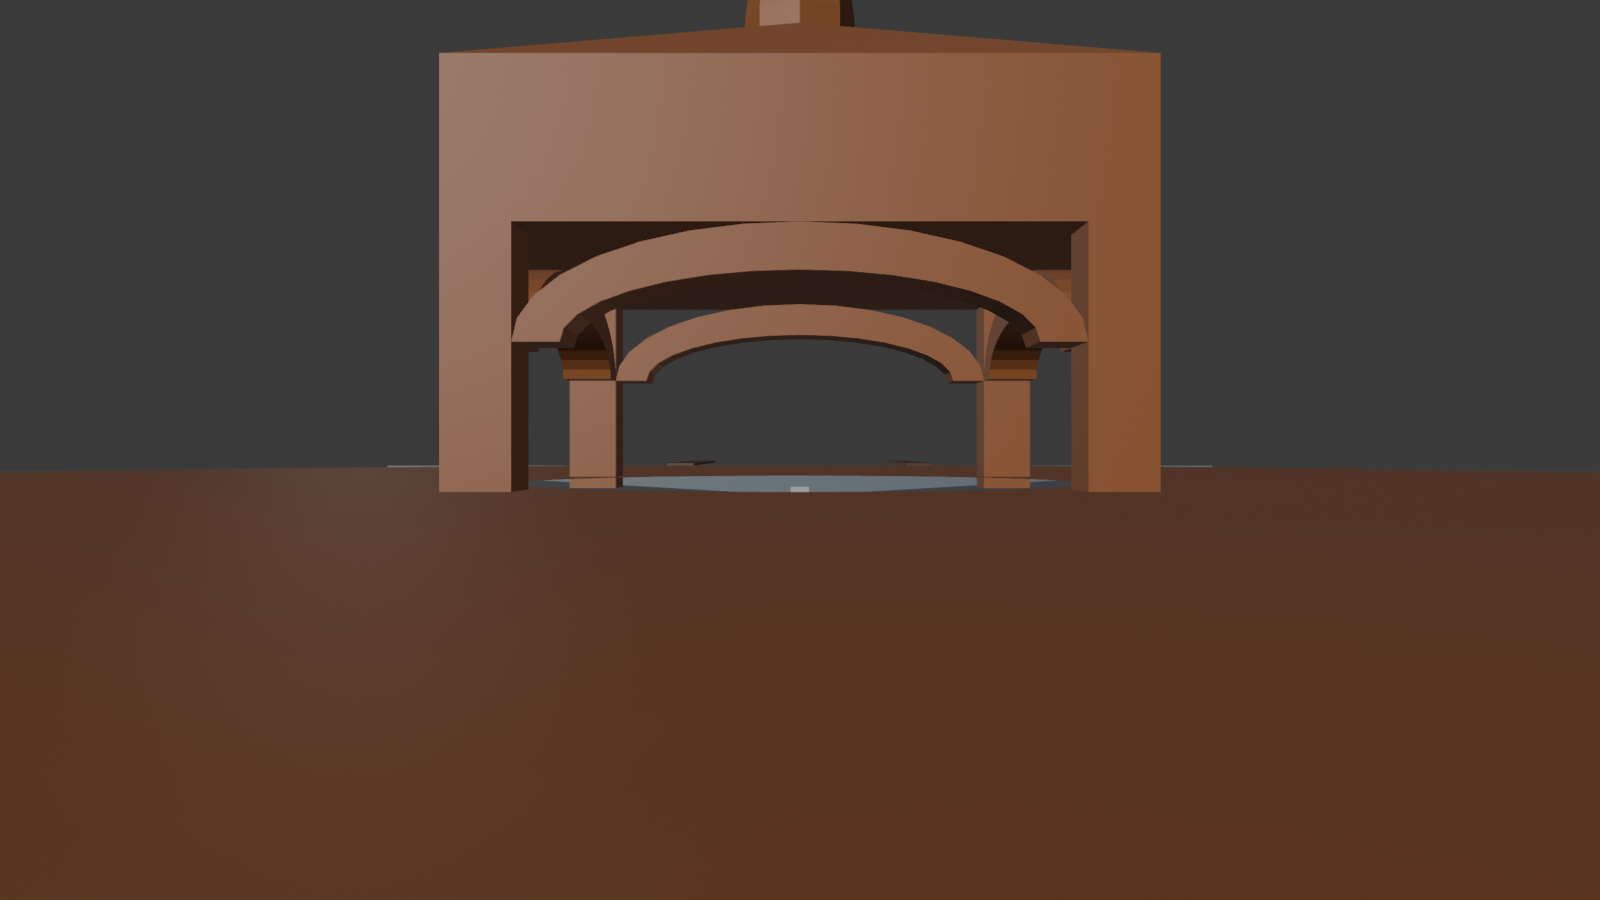
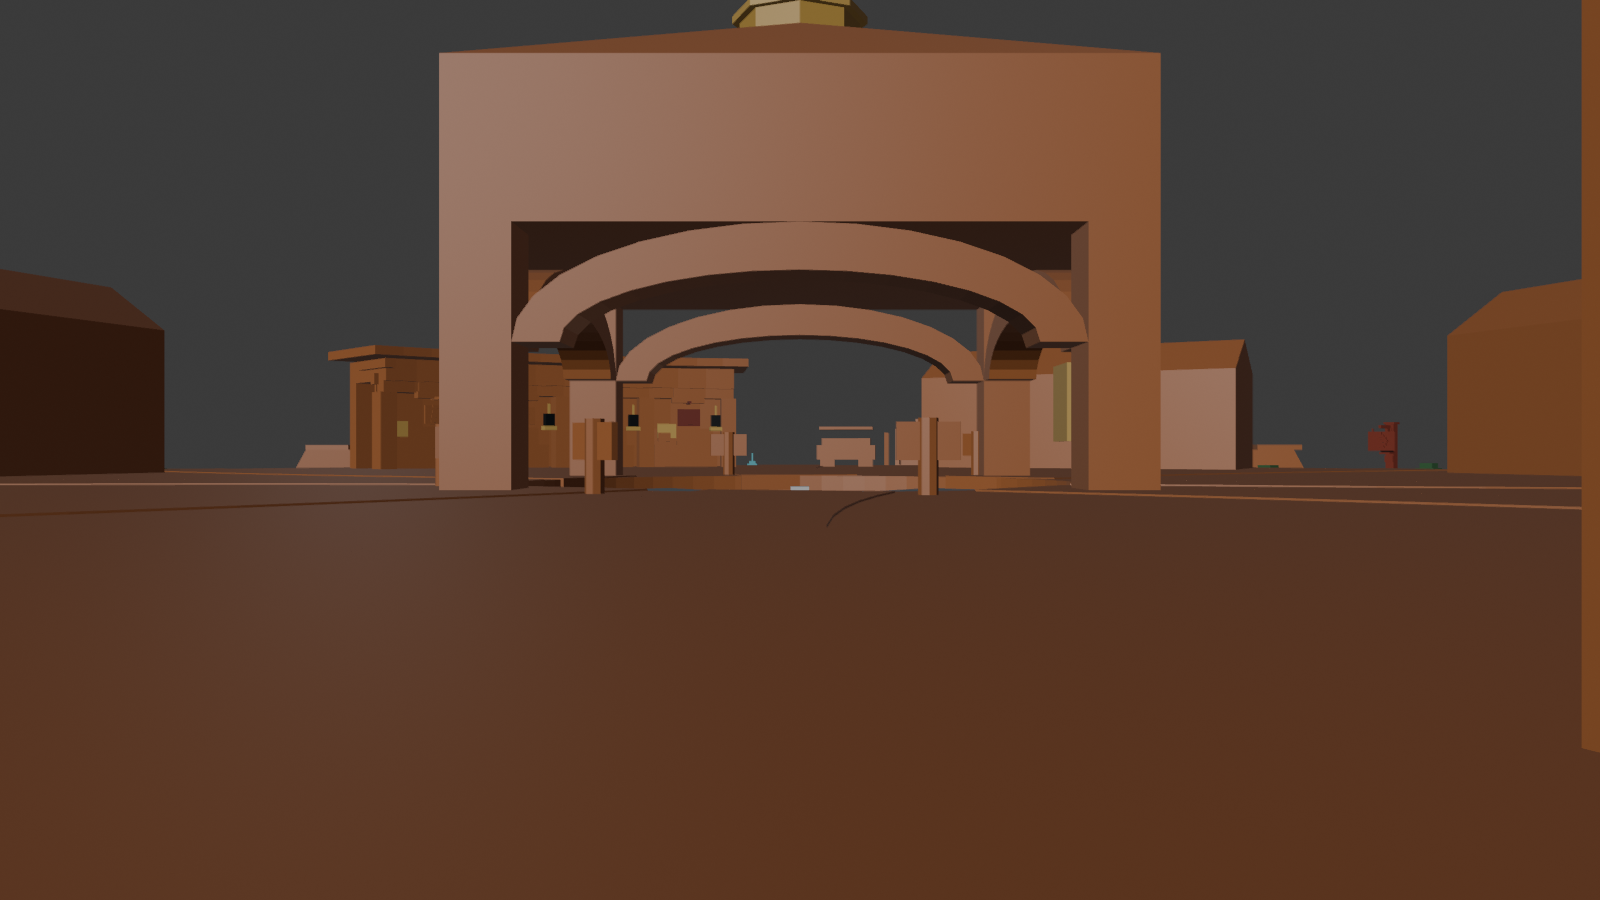
Add the spire beacon, the fourth of five lit sites
config.LIT_LANTERN_SITES named "spire_beacon" but nothing in the scene carried
it -- lib.mood.LIT_SITE_OBJECTS mapped it to DD_Lamp_SpireBeacon, which did
not exist, so the map's own orientation anchor was unlit while the rule that
made it special was already in force.

Built as a glazed lantern room wrapping the spire drum at Z 47.6-52.4:
gallery, glass, cornice, merged into one object so the glass is a Z band
mark_glass can send to the glass slot. 96 tris against the 250 DD_Lamp
budget, manifold, zero n-gons.

The render from 600 studs out at sea now shows the beacon reading as a warm
band at the spire's base with the two breakwater caps as the only other lights
on the horizon, which is exactly what the scarce-light lever is for.

Four of the five sites now exist. dock_north_head is the last, and it belongs
to Phase 7c's Deckhand post rather than to anything built so far.

validate.py still exits 0. 211 objects, 15,706 tris.

Claude-Session: https://claude.ai/code/session_01FeoNTmbysWT7k1eNgrmMXH

Changed region(s): [[0.1875, 0.0, 1.0, 0.84], [0.0, 0.28, 0.125, 0.5289], [0.4375, 0.0, 0.5625, 0.0311]]

diff --git a/src/p3_shop.py b/src/p3_shop.py
@@ -62,9 +62,23 @@ ROOF_RIDGE_LEN = 20.0
 SPIRE_DRUM_R = 6.0
 SPIRE_DRUM_H = 4.0
 
+# Beacon lantern room, glazed, wrapping the spire drum -- the classic
+# lighthouse arrangement of a gallery, a glazed room, and a cornice under the
+# taper. This is "spire_beacon" in config.LIT_LANTERN_SITES: the map's
+# orientation anchor and one of only five lights left burning, so it is the
+# single most important lit surface in the build.
+BEACON_GALLERY_R = 7.6
+BEACON_GLASS_R = 6.6
+BEACON_CORNICE_R = 7.4
+BEACON_GALLERY_H = 0.8
+BEACON_GLASS_H = 3.2
+BEACON_CORNICE_H = 0.8
+BEACON_BASE_Z = config.SHOP_ROOF_Z - 0.4
+
 OWNED_PREFIXES = [
     "DD_Struct_Shop",   # catches Phase 1's single box + all sub-parts below
     "DD_Struct_Spire",
+    "DD_Lamp_SpireBeacon",
 ]
 
 
@@ -153,6 +167,42 @@ def build_spire():
     return [drum, cone]
 
 
+def build_beacon():
+    """Glazed lantern room wrapping the spire drum: gallery, glass, cornice,
+    merged into one object so the glass is a Z band that lib.mood.mark_glass
+    can send to the glass slot. Named DD_Lamp_SpireBeacon because that is what
+    lib.mood.LIT_SITE_OBJECTS maps config's "spire_beacon" to -- without this
+    object that entry in LIT_LANTERN_SITES pointed at nothing."""
+    import bmesh
+
+    from lib import mood as dd_mood
+
+    bm = bmesh.new()
+    z = 0.0
+    for radius, height in ((BEACON_GALLERY_R, BEACON_GALLERY_H),
+                           (BEACON_GLASS_R, BEACON_GLASS_H),
+                           (BEACON_CORNICE_R, BEACON_CORNICE_H)):
+        ring = bmesh.new()
+        bmesh.ops.create_cone(ring, cap_ends=True, cap_tris=True, segments=8,
+                              radius1=radius, radius2=radius, depth=height)
+        bmesh.ops.translate(ring, verts=ring.verts, vec=(0.0, 0.0, z + height / 2.0))
+        tmp = bpy.data.meshes.new("_tmp_beacon")
+        ring.to_mesh(tmp)
+        ring.free()
+        bm.from_mesh(tmp)
+        bpy.data.meshes.remove(tmp)
+        z += height
+
+    bmesh.ops.recalc_face_normals(bm, faces=bm.faces)
+    bm.normal_update()
+    obj = dd_mesh.bm_to_object("DD_Lamp_SpireBeacon", bm)
+    obj.location = (0.0, 0.0, BEACON_BASE_Z)
+    _finish(obj)
+    dd_mood.mark_glass(obj, BEACON_GALLERY_H + 0.01,
+                       BEACON_GALLERY_H + BEACON_GLASS_H - 0.01)
+    return obj
+
+
 def build():
     dd_scene.ensure_collections()
     purge()
@@ -161,6 +211,7 @@ def build():
     build_upper_floor()
     build_roof()
     build_spire()
+    build_beacon()
 
 
 def capture_renders():
